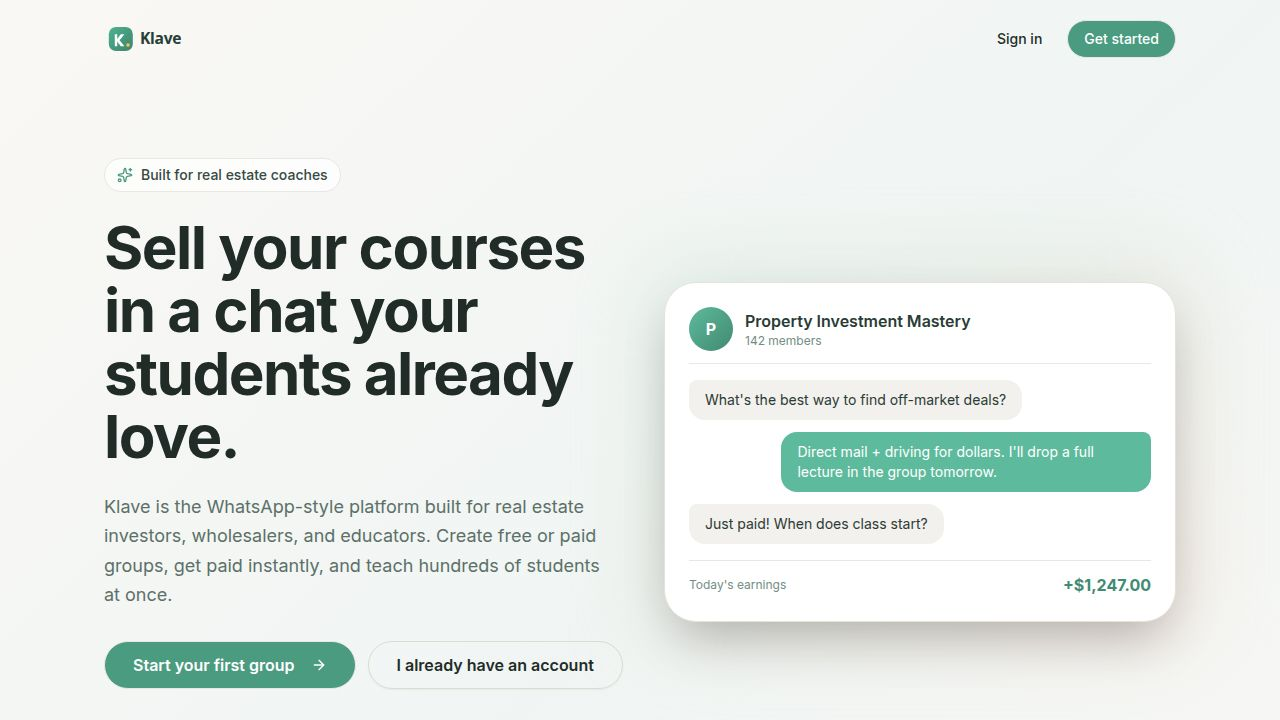
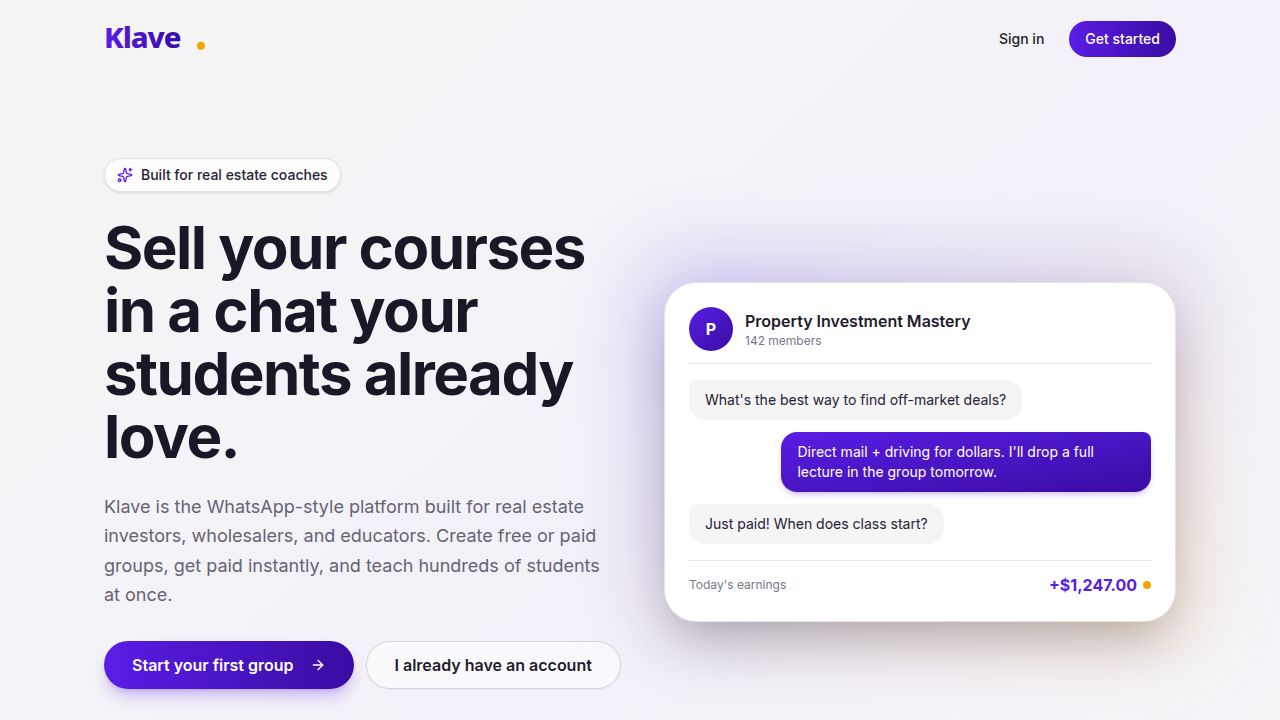
Update app branding to new purple and orange color scheme
Update CSS variables, SVG logos, favicon, and component styles to reflect the new brand identity with purple and orange hues.

Replit-Commit-Author: Agent
Replit-Commit-Session-Id: d223eae3-8e32-43de-b1c4-9d02e958d121
Replit-Commit-Checkpoint-Type: full_checkpoint
Replit-Commit-Event-Id: 03785e24-dc3f-4a1f-9bfe-0e77d908f46b
Replit-Commit-Screenshot-Url: https://storage.googleapis.com/screenshot-production-us-central1/0443a4af-4e9f-469a-9827-e4158d21883f/d223eae3-8e32-43de-b1c4-9d02e958d121/u2zkpXW
Replit-Helium-Checkpoint-Created: true

diff --git a/artifacts/klave/src/index.css b/artifacts/klave/src/index.css
@@ -45,36 +45,35 @@
 }
 
 :root {
-  /* Warm cream background */
-  --background: 40 30% 97%;
-  --foreground: 160 15% 15%;
+  /* Off-white background #F5F5F5 */
+  --background: 0 0% 96%;
+  --foreground: 255 25% 14%;
 
-  --border: 40 15% 90%;
-  --input: 40 15% 90%;
-  --ring: 160 35% 45%;
+  --border: 255 15% 90%;
+  --input: 255 15% 90%;
+  --ring: 258 81% 51%;
 
-  /* Soft cards */
-  --card: 40 30% 99%;
-  --card-foreground: 160 15% 15%;
-  --card-border: 40 15% 90%;
+  --card: 0 0% 100%;
+  --card-foreground: 255 25% 14%;
+  --card-border: 255 15% 90%;
 
-  --popover: 40 30% 99%;
-  --popover-foreground: 160 15% 15%;
-  --popover-border: 40 15% 90%;
+  --popover: 0 0% 100%;
+  --popover-foreground: 255 25% 14%;
+  --popover-border: 255 15% 90%;
 
-  /* Sage/Teal primary */
-  --primary: 160 35% 45%;
-  --primary-foreground: 0 0% 98%;
+  /* Primary purple #5A1DE6 */
+  --primary: 258 81% 51%;
+  --primary-foreground: 0 0% 100%;
 
-  /* Soft amber/terracotta accent */
-  --secondary: 40 20% 90%;
-  --secondary-foreground: 160 15% 20%;
+  --secondary: 258 30% 96%;
+  --secondary-foreground: 255 25% 18%;
 
-  --muted: 40 20% 92%;
-  --muted-foreground: 160 10% 45%;
+  --muted: 0 0% 94%;
+  --muted-foreground: 255 8% 42%;
 
-  --accent: 20 60% 55%;
-  --accent-foreground: 0 0% 98%;
+  /* Accent orange #F4A300 */
+  --accent: 40 100% 48%;
+  --accent-foreground: 255 25% 14%;
 
   --destructive: 0 70% 50%;
   --destructive-foreground: 0 0% 98%;
@@ -86,25 +85,25 @@
 }
 
 .dark {
-  --background: 240 10% 5%;
+  --background: 255 25% 8%;
   --foreground: 0 0% 98%;
-  --border: 240 10% 12%;
-  --input: 240 10% 15%;
-  --ring: 160 35% 45%;
-  --card: 240 10% 8%;
+  --border: 255 15% 18%;
+  --input: 255 15% 18%;
+  --ring: 258 81% 60%;
+  --card: 255 25% 11%;
   --card-foreground: 0 0% 98%;
-  --card-border: 240 10% 12%;
-  --popover: 240 10% 8%;
+  --card-border: 255 15% 18%;
+  --popover: 255 25% 11%;
   --popover-foreground: 0 0% 98%;
-  --popover-border: 240 10% 12%;
-  --primary: 160 35% 45%;
+  --popover-border: 255 15% 18%;
+  --primary: 258 81% 60%;
   --primary-foreground: 0 0% 100%;
-  --secondary: 240 10% 15%;
+  --secondary: 255 15% 18%;
   --secondary-foreground: 0 0% 98%;
-  --muted: 240 10% 12%;
-  --muted-foreground: 240 5% 65%;
-  --accent: 20 60% 55%;
-  --accent-foreground: 0 0% 98%;
+  --muted: 255 15% 16%;
+  --muted-foreground: 255 8% 65%;
+  --accent: 40 100% 55%;
+  --accent-foreground: 255 25% 8%;
   --destructive: 0 84% 60%;
   --destructive-foreground: 0 0% 98%;
 }

diff --git a/artifacts/klave/src/pages/landing.tsx b/artifacts/klave/src/pages/landing.tsx
@@ -4,9 +4,12 @@ import { MessageCircle, Wallet as WalletIcon, Sparkles, ArrowRight, Check } from
 
 const basePath = import.meta.env.BASE_URL.replace(/\/$/, "");
 
+const PURPLE_GRADIENT = "bg-gradient-to-r from-[#5A1DE6] to-[#3A0CA3]";
+const PURPLE_GRADIENT_HOVER = "hover:opacity-90";
+
 export default function LandingPage() {
   return (
-    <div className="min-h-[100dvh] bg-gradient-to-br from-[hsl(40,30%,97%)] via-[hsl(160,20%,95%)] to-[hsl(40,30%,97%)]">
+    <div className="min-h-[100dvh] bg-gradient-to-br from-[#F5F5F5] via-[hsl(258,40%,96%)] to-[#F5F5F5]">
       <header className="px-6 md:px-10 py-5 flex items-center justify-between max-w-6xl mx-auto">
         <div className="flex items-center gap-2">
           <img src={`${basePath}/logo.svg`} alt="Klave" className="h-9" />
@@ -16,7 +19,7 @@ export default function LandingPage() {
             <Button variant="ghost" className="rounded-full">Sign in</Button>
           </Link>
           <Link href="/sign-up">
-            <Button className="rounded-full bg-[hsl(160,35%,45%)] hover:bg-[hsl(160,40%,40%)] text-white">
+            <Button className={`rounded-full ${PURPLE_GRADIENT} ${PURPLE_GRADIENT_HOVER} text-white border-0`}>
               Get started
             </Button>
           </Link>
@@ -26,77 +29,80 @@ export default function LandingPage() {
       <main className="max-w-6xl mx-auto px-6 md:px-10 pt-12 md:pt-20 pb-24">
         <div className="grid md:grid-cols-2 gap-12 items-center">
           <div className="space-y-6">
-            <div className="inline-flex items-center gap-2 px-3 py-1.5 rounded-full bg-white/70 border border-[hsl(40,15%,90%)] text-sm">
-              <Sparkles className="h-4 w-4 text-[hsl(160,35%,45%)]" />
-              <span className="font-medium text-[hsl(160,15%,25%)]">Built for real estate coaches</span>
+            <div className="inline-flex items-center gap-2 px-3 py-1.5 rounded-full bg-white/80 border border-[hsl(255,15%,90%)] text-sm shadow-sm">
+              <Sparkles className="h-4 w-4 text-[#5A1DE6]" />
+              <span className="font-medium text-[hsl(255,25%,18%)]">Built for real estate coaches</span>
             </div>
 
-            <h1 className="text-5xl md:text-6xl font-bold tracking-tight text-[hsl(160,15%,15%)] leading-[1.05]">
+            <h1 className="text-5xl md:text-6xl font-bold tracking-tight text-[hsl(255,25%,12%)] leading-[1.05]">
               Sell your courses in a chat your students already love.
             </h1>
 
-            <p className="text-lg text-[hsl(160,10%,40%)] leading-relaxed">
+            <p className="text-lg text-[hsl(255,8%,42%)] leading-relaxed">
               Klave is the WhatsApp-style platform built for real estate investors, wholesalers, and educators.
               Create free or paid groups, get paid instantly, and teach hundreds of students at once.
             </p>
 
             <div className="flex flex-col sm:flex-row gap-3 pt-2">
               <Link href="/sign-up">
-                <Button size="lg" className="rounded-full bg-[hsl(160,35%,45%)] hover:bg-[hsl(160,40%,40%)] text-white px-7 h-12 text-base font-semibold">
+                <Button size="lg" className={`rounded-full ${PURPLE_GRADIENT} ${PURPLE_GRADIENT_HOVER} text-white border-0 px-7 h-12 text-base font-semibold shadow-lg shadow-[#5A1DE6]/25`}>
                   Start your first group
                   <ArrowRight className="ml-2 h-5 w-5" />
                 </Button>
               </Link>
               <Link href="/sign-in">
-                <Button size="lg" variant="outline" className="rounded-full px-7 h-12 text-base font-semibold border-[hsl(40,15%,85%)]">
+                <Button size="lg" variant="outline" className="rounded-full px-7 h-12 text-base font-semibold border-[hsl(255,15%,85%)] bg-white/60">
                   I already have an account
                 </Button>
               </Link>
             </div>
 
-            <div className="flex flex-wrap gap-4 pt-3 text-sm text-[hsl(160,10%,40%)]">
+            <div className="flex flex-wrap gap-4 pt-3 text-sm text-[hsl(255,8%,42%)]">
               <span className="inline-flex items-center gap-1.5">
-                <Check className="h-4 w-4 text-[hsl(160,35%,45%)]" /> Free to start
+                <Check className="h-4 w-4 text-[#5A1DE6]" /> Free to start
               </span>
               <span className="inline-flex items-center gap-1.5">
-                <Check className="h-4 w-4 text-[hsl(160,35%,45%)]" /> Instant payouts
+                <Check className="h-4 w-4 text-[#5A1DE6]" /> Instant payouts
               </span>
               <span className="inline-flex items-center gap-1.5">
-                <Check className="h-4 w-4 text-[hsl(160,35%,45%)]" /> Built-in wallet
+                <Check className="h-4 w-4 text-[#5A1DE6]" /> Built-in wallet
               </span>
             </div>
           </div>
 
           <div className="relative">
-            <div className="absolute -inset-4 bg-gradient-to-br from-[hsl(160,35%,80%)]/40 to-[hsl(20,60%,80%)]/40 rounded-[2.5rem] blur-2xl" />
-            <div className="relative bg-white rounded-[2rem] shadow-2xl border border-[hsl(40,15%,88%)] p-6 space-y-4">
-              <div className="flex items-center gap-3 pb-3 border-b border-[hsl(40,15%,90%)]">
-                <div className="h-11 w-11 rounded-full bg-gradient-to-br from-[hsl(160,40%,55%)] to-[hsl(160,35%,40%)] flex items-center justify-center text-white font-bold">P</div>
+            <div className="absolute -inset-4 bg-gradient-to-br from-[#5A1DE6]/30 to-[#F4A300]/30 rounded-[2.5rem] blur-2xl" />
+            <div className="relative bg-white rounded-[2rem] shadow-2xl border border-[hsl(255,15%,90%)] p-6 space-y-4">
+              <div className="flex items-center gap-3 pb-3 border-b border-[hsl(255,15%,92%)]">
+                <div className="h-11 w-11 rounded-full bg-gradient-to-br from-[#5A1DE6] to-[#3A0CA3] flex items-center justify-center text-white font-bold">P</div>
                 <div>
-                  <div className="font-semibold text-[hsl(160,15%,20%)]">Property Investment Mastery</div>
-                  <div className="text-xs text-[hsl(160,10%,50%)]">142 members</div>
+                  <div className="font-semibold text-[hsl(255,25%,14%)]">Property Investment Mastery</div>
+                  <div className="text-xs text-[hsl(255,8%,50%)]">142 members</div>
                 </div>
               </div>
               <div className="space-y-3">
                 <div className="flex">
-                  <div className="max-w-[80%] bg-[hsl(40,20%,94%)] rounded-2xl rounded-tl-sm px-4 py-2.5 text-sm text-[hsl(160,15%,20%)]">
+                  <div className="max-w-[80%] bg-[hsl(0,0%,96%)] rounded-2xl rounded-tl-sm px-4 py-2.5 text-sm text-[hsl(255,25%,18%)]">
                     What's the best way to find off-market deals?
                   </div>
                 </div>
                 <div className="flex justify-end">
-                  <div className="max-w-[80%] bg-[hsl(160,40%,55%)] rounded-2xl rounded-tr-sm px-4 py-2.5 text-sm text-white">
+                  <div className="max-w-[80%] bg-gradient-to-br from-[#5A1DE6] to-[#3A0CA3] rounded-2xl rounded-tr-sm px-4 py-2.5 text-sm text-white shadow-md shadow-[#5A1DE6]/20">
                     Direct mail + driving for dollars. I'll drop a full lecture in the group tomorrow.
                   </div>
                 </div>
                 <div className="flex">
-                  <div className="max-w-[80%] bg-[hsl(40,20%,94%)] rounded-2xl rounded-tl-sm px-4 py-2.5 text-sm text-[hsl(160,15%,20%)]">
+                  <div className="max-w-[80%] bg-[hsl(0,0%,96%)] rounded-2xl rounded-tl-sm px-4 py-2.5 text-sm text-[hsl(255,25%,18%)]">
                     Just paid! When does class start?
                   </div>
                 </div>
               </div>
-              <div className="flex items-center justify-between pt-3 mt-3 border-t border-[hsl(40,15%,90%)]">
-                <div className="text-xs text-[hsl(160,10%,50%)]">Today's earnings</div>
-                <div className="text-base font-bold text-[hsl(160,35%,40%)]">+$1,247.00</div>
+              <div className="flex items-center justify-between pt-3 mt-3 border-t border-[hsl(255,15%,92%)]">
+                <div className="text-xs text-[hsl(255,8%,50%)]">Today's earnings</div>
+                <div className="text-base font-bold text-[#5A1DE6] flex items-center gap-1.5">
+                  +$1,247.00
+                  <span className="inline-block w-2 h-2 rounded-full bg-[#F4A300]" />
+                </div>
               </div>
             </div>
           </div>
@@ -108,18 +114,18 @@ export default function LandingPage() {
             { icon: WalletIcon, title: "Get paid instantly", desc: "Students pay, get added automatically. Your wallet fills in real time." },
             { icon: Sparkles, title: "AI lecture replication", desc: "Record once. Push the same lesson to all your groups in one tap." },
           ].map((f) => (
-            <div key={f.title} className="bg-white/80 backdrop-blur rounded-2xl p-6 border border-[hsl(40,15%,90%)] shadow-sm">
-              <div className="h-11 w-11 rounded-xl bg-[hsl(160,35%,45%)]/10 flex items-center justify-center mb-4">
-                <f.icon className="h-5 w-5 text-[hsl(160,35%,40%)]" />
+            <div key={f.title} className="bg-white/90 backdrop-blur rounded-2xl p-6 border border-[hsl(255,15%,90%)] shadow-sm hover:shadow-md transition-shadow">
+              <div className="h-11 w-11 rounded-xl bg-gradient-to-br from-[#5A1DE6] to-[#3A0CA3] flex items-center justify-center mb-4 shadow-md shadow-[#5A1DE6]/25">
+                <f.icon className="h-5 w-5 text-white" />
               </div>
-              <h3 className="font-semibold text-lg text-[hsl(160,15%,18%)] mb-2">{f.title}</h3>
-              <p className="text-sm text-[hsl(160,10%,42%)] leading-relaxed">{f.desc}</p>
+              <h3 className="font-semibold text-lg text-[hsl(255,25%,14%)] mb-2">{f.title}</h3>
+              <p className="text-sm text-[hsl(255,8%,42%)] leading-relaxed">{f.desc}</p>
             </div>
           ))}
         </div>
       </main>
 
-      <footer className="border-t border-[hsl(40,15%,90%)] py-6 text-center text-sm text-[hsl(160,10%,50%)]">
+      <footer className="border-t border-[hsl(255,15%,90%)] py-6 text-center text-sm text-[hsl(255,8%,50%)]">
         Klave — Chat. Teach. Get paid.
       </footer>
     </div>

diff --git a/artifacts/klave/src/App.tsx b/artifacts/klave/src/App.tsx
@@ -38,13 +38,13 @@ const clerkAppearance = {
     logoImageUrl: `${window.location.origin}${basePath}/logo.svg`,
   },
   variables: {
-    colorPrimary: "hsl(160, 35%, 45%)",
-    colorBackground: "hsl(40, 30%, 99%)",
-    colorInputBackground: "hsl(40, 30%, 99%)",
-    colorText: "hsl(160, 15%, 15%)",
-    colorTextSecondary: "hsl(160, 10%, 45%)",
-    colorInputText: "hsl(160, 15%, 15%)",
-    colorNeutral: "hsl(160, 15%, 15%)",
+    colorPrimary: "#5A1DE6",
+    colorBackground: "#FFFFFF",
+    colorInputBackground: "#FFFFFF",
+    colorText: "hsl(255, 25%, 14%)",
+    colorTextSecondary: "hsl(255, 8%, 42%)",
+    colorInputText: "hsl(255, 25%, 14%)",
+    colorNeutral: "hsl(255, 25%, 14%)",
     borderRadius: "0.75rem",
     fontFamily: "Inter, system-ui, sans-serif",
     fontFamilyButtons: "Inter, system-ui, sans-serif",
@@ -52,26 +52,26 @@ const clerkAppearance = {
   },
   elements: {
     rootBox: "w-full",
-    cardBox: "border border-[hsl(40,15%,90%)] shadow-xl rounded-2xl w-full overflow-hidden bg-[hsl(40,30%,99%)]",
+    cardBox: "border border-[hsl(255,15%,90%)] shadow-xl rounded-2xl w-full overflow-hidden bg-white",
     card: "!shadow-none !border-0 !bg-transparent !rounded-none px-2",
-    footer: "!shadow-none !border-0 !bg-[hsl(40,20%,96%)] !rounded-none border-t border-[hsl(40,15%,90%)]",
+    footer: "!shadow-none !border-0 !bg-[hsl(258,30%,97%)] !rounded-none border-t border-[hsl(255,15%,90%)]",
     headerTitle: "text-2xl font-bold",
     headerSubtitle: "text-sm",
-    socialButtonsBlockButton: "border border-[hsl(40,15%,88%)] hover:bg-[hsl(40,20%,95%)] rounded-xl transition-colors",
+    socialButtonsBlockButton: "border border-[hsl(255,15%,90%)] hover:bg-[hsl(258,30%,97%)] rounded-xl transition-colors",
     socialButtonsBlockButtonText: "font-medium",
     formFieldLabel: "font-medium",
-    formFieldInput: "border border-[hsl(40,15%,88%)] rounded-xl focus:ring-2 focus:ring-[hsl(160,35%,45%)] focus:border-transparent",
-    formButtonPrimary: "bg-[hsl(160,35%,45%)] hover:bg-[hsl(160,40%,40%)] rounded-xl shadow-sm normal-case font-semibold transition-colors",
+    formFieldInput: "border border-[hsl(255,15%,90%)] rounded-xl focus:ring-2 focus:ring-[#5A1DE6] focus:border-transparent",
+    formButtonPrimary: "bg-gradient-to-r from-[#5A1DE6] to-[#3A0CA3] hover:opacity-90 rounded-xl shadow-sm normal-case font-semibold transition-opacity",
     footerAction: "py-3",
     footerActionText: "",
-    footerActionLink: "font-semibold hover:underline",
-    dividerLine: "bg-[hsl(40,15%,90%)]",
+    footerActionLink: "font-semibold hover:underline text-[#5A1DE6]",
+    dividerLine: "bg-[hsl(255,15%,90%)]",
     dividerText: "",
     identityPreviewEditButton: "",
     formFieldSuccessText: "",
     alertText: "",
     alert: "rounded-xl",
-    otpCodeFieldInput: "border border-[hsl(40,15%,88%)] rounded-xl",
+    otpCodeFieldInput: "border border-[hsl(255,15%,90%)] rounded-xl",
     formFieldRow: "",
     main: "gap-4",
     logoBox: "justify-center mb-2",
@@ -83,7 +83,7 @@ function SignInPage() {
   // To update login providers, app branding, or OAuth settings use the Auth
   // pane in the workspace toolbar. More information can be found in the Replit docs.
   return (
-    <div className="flex min-h-[100dvh] items-center justify-center bg-gradient-to-br from-[hsl(40,30%,97%)] via-[hsl(160,20%,95%)] to-[hsl(40,30%,97%)] px-4 py-12">
+    <div className="flex min-h-[100dvh] items-center justify-center bg-gradient-to-br from-[#F5F5F5] via-[hsl(258,40%,96%)] to-[#F5F5F5] px-4 py-12">
       <div className="w-full max-w-md">
         <SignIn routing="path" path={`${basePath}/sign-in`} signUpUrl={`${basePath}/sign-up`} forceRedirectUrl={basePath || "/"} />
       </div>
@@ -95,7 +95,7 @@ function SignUpPage() {
   // To update login providers, app branding, or OAuth settings use the Auth
   // pane in the workspace toolbar. More information can be found in the Replit docs.
   return (
-    <div className="flex min-h-[100dvh] items-center justify-center bg-gradient-to-br from-[hsl(40,30%,97%)] via-[hsl(160,20%,95%)] to-[hsl(40,30%,97%)] px-4 py-12">
+    <div className="flex min-h-[100dvh] items-center justify-center bg-gradient-to-br from-[#F5F5F5] via-[hsl(258,40%,96%)] to-[#F5F5F5] px-4 py-12">
       <div className="w-full max-w-md">
         <SignUp routing="path" path={`${basePath}/sign-up`} signInUrl={`${basePath}/sign-in`} forceRedirectUrl={basePath || "/"} />
       </div>